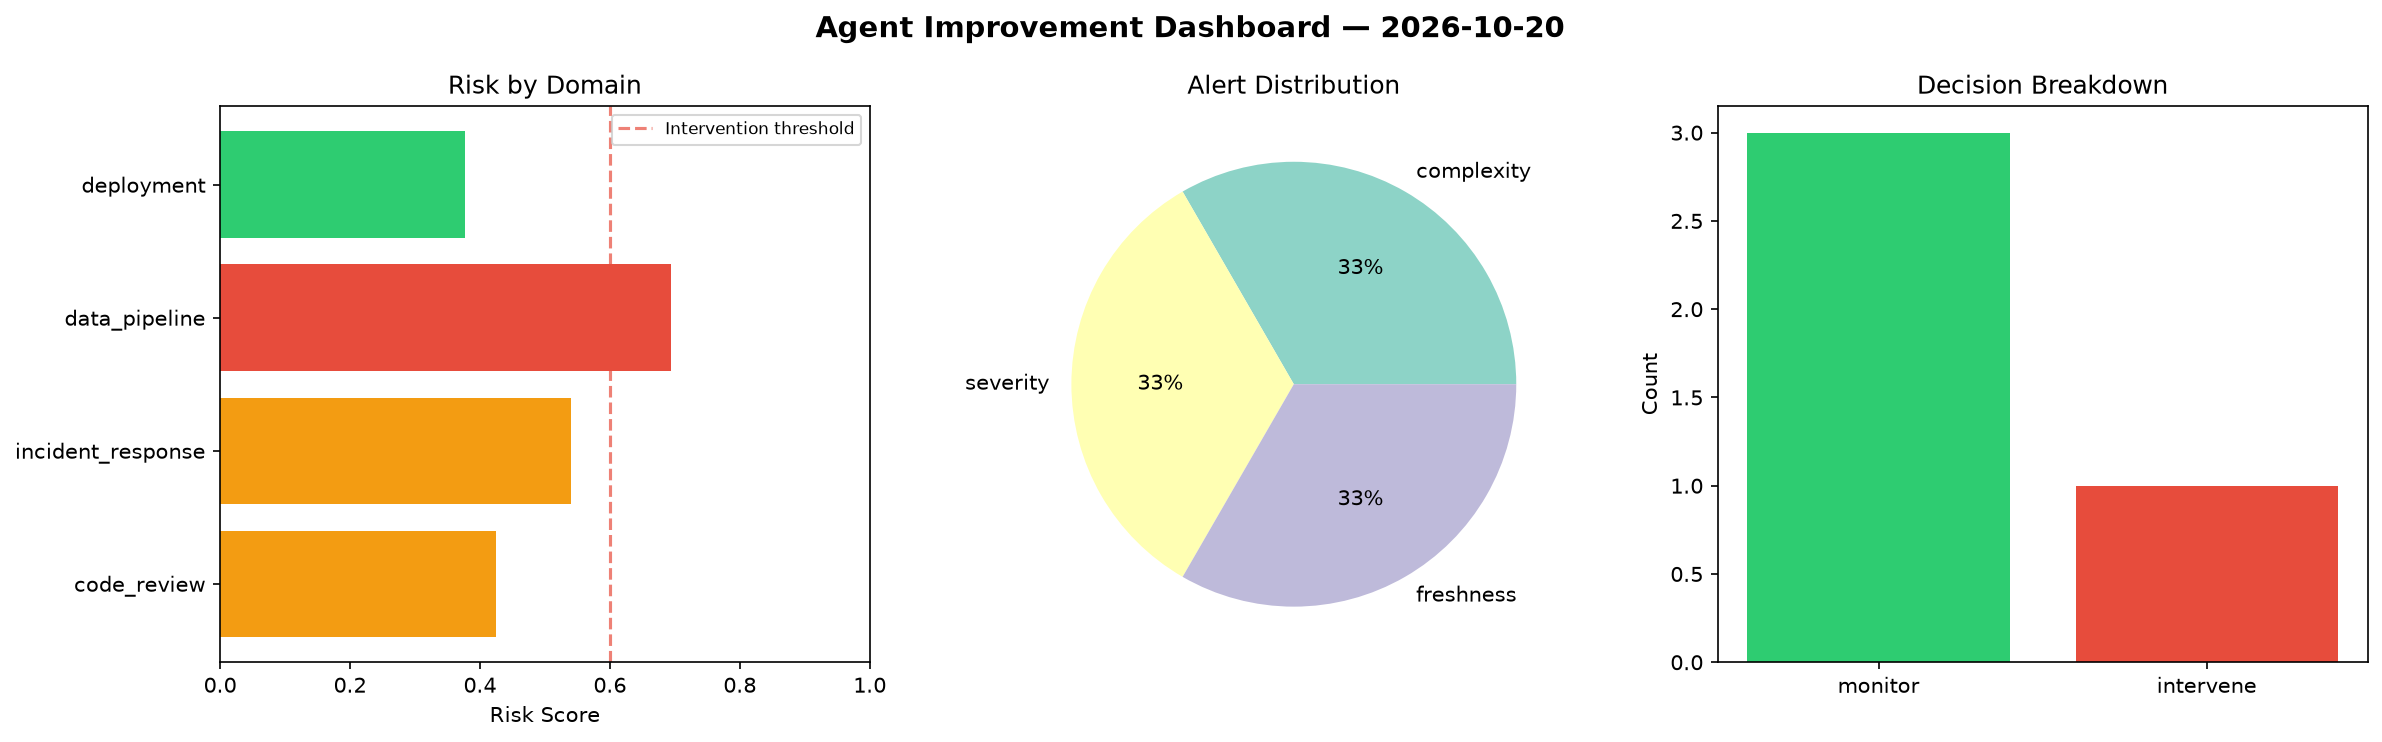
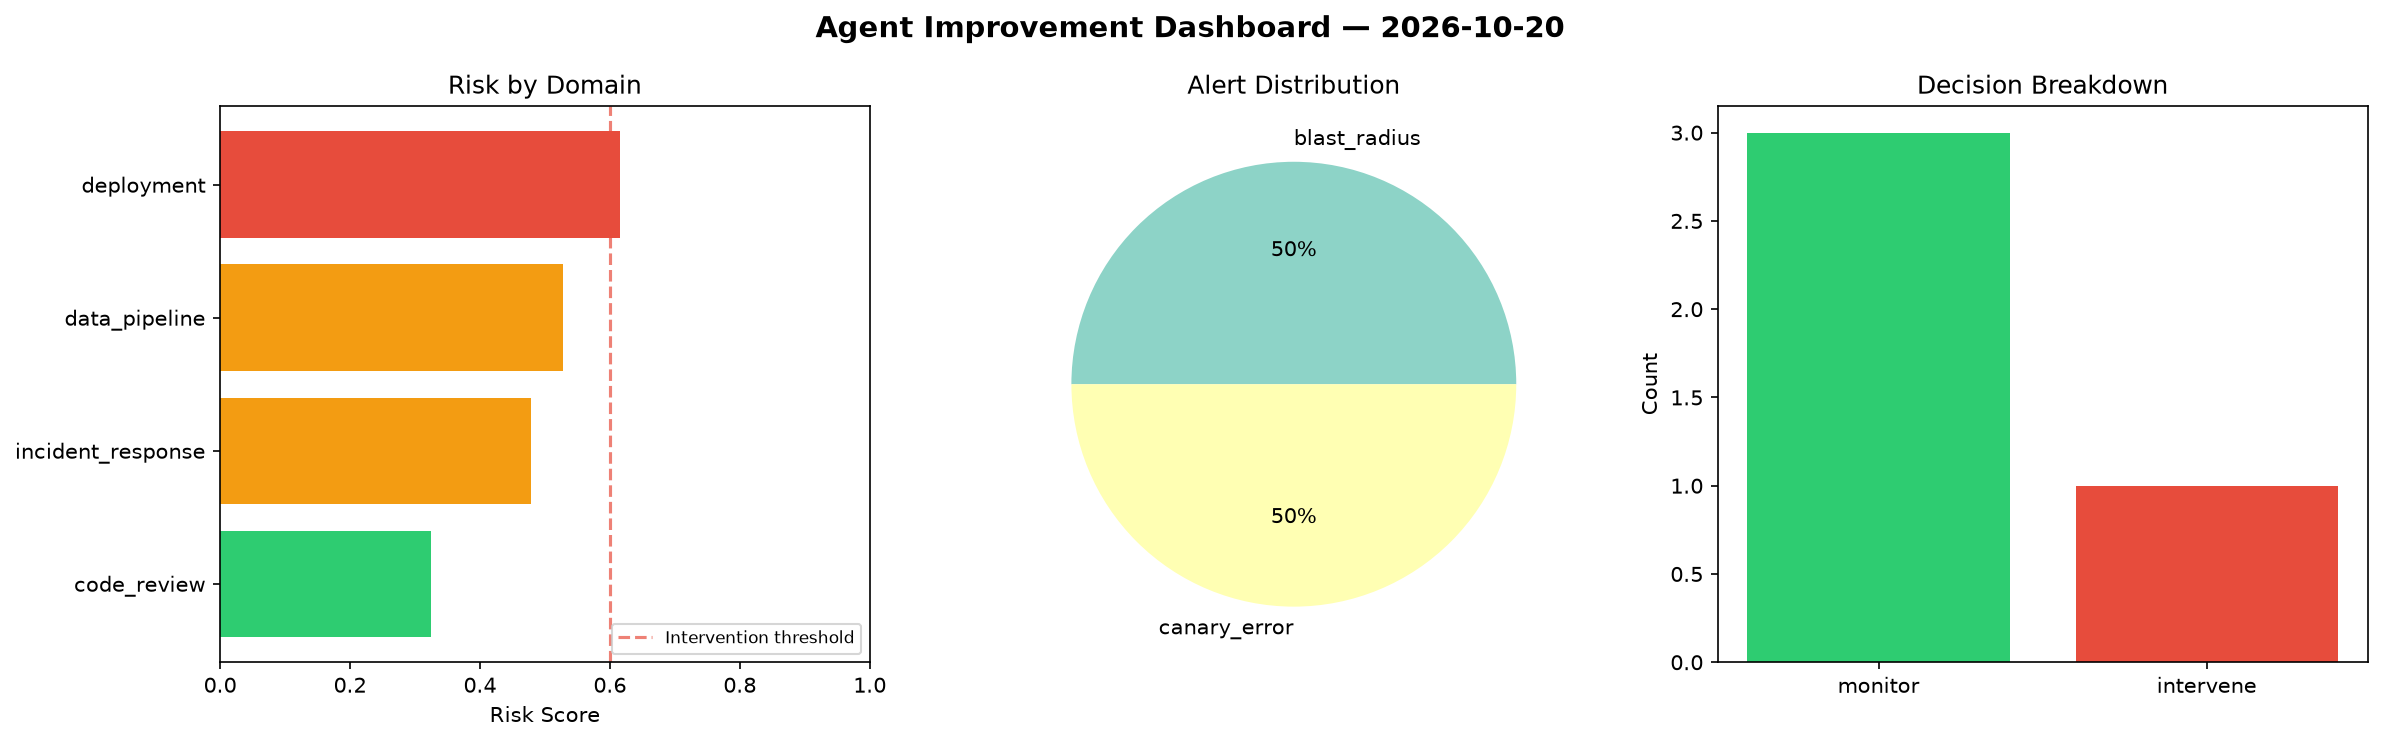
agent-improvement: daily cycle 2026-10-20T13:33

diff --git a/logs/2026-10-20.md b/logs/2026-10-20.md
@@ -1,6 +1,6 @@
 # Agent Improvement Report — 2026-10-20
 
-**Cycle ID:** `1d80ff64` | **Avg Risk:** 0.5088 | **Interventions:** 1/4
+**Cycle ID:** `5b4911e5` | **Avg Risk:** 0.4863 | **Interventions:** 1/4
 
 ![Dashboard](2026-10-20_dashboard.png)
 
@@ -10,18 +10,18 @@
 
 | Domain | Risk Score | Decision | Alerts |
 |--------|-----------|----------|--------|
-| code_review | 0.4246 | monitor | complexity |
-| incident_response | 0.5398 | monitor | severity |
-| data_pipeline | 0.6935 | intervene | freshness |
-| deployment | 0.3774 | monitor | none |
+| code_review | 0.3244 | monitor | none |
+| incident_response | 0.4783 | monitor | blast_radius |
+| data_pipeline | 0.5272 | monitor | none |
+| deployment | 0.6153 | intervene | canary_error |
 
 ## Delta vs Yesterday
 
 | Domain | Today | Yesterday | Change |
 |--------|-------|-----------|--------|
-| code_review | 0.4246 | 0.1527 | 📈 178.1% |
-| incident_response | 0.5398 | 0.4779 | 📈 13.0% |
-| data_pipeline | 0.6935 | 0.584 | 📈 18.8% |
-| deployment | 0.3774 | 0.4885 | 📉 -22.7% |
+| code_review | 0.3244 | 0.1527 | 📈 112.4% |
+| incident_response | 0.4783 | 0.4779 | 📈 0.1% |
+| data_pipeline | 0.5272 | 0.584 | 📉 -9.7% |
+| deployment | 0.6153 | 0.4885 | 📈 26.0% |
 
-**Refinement:** `{'adjustment': 'maintain', 'trend': 'improving', 'window': 4}`
+**Refinement:** `{'adjustment': 'tighten_thresholds', 'trend': 'degrading', 'window': 4}`
